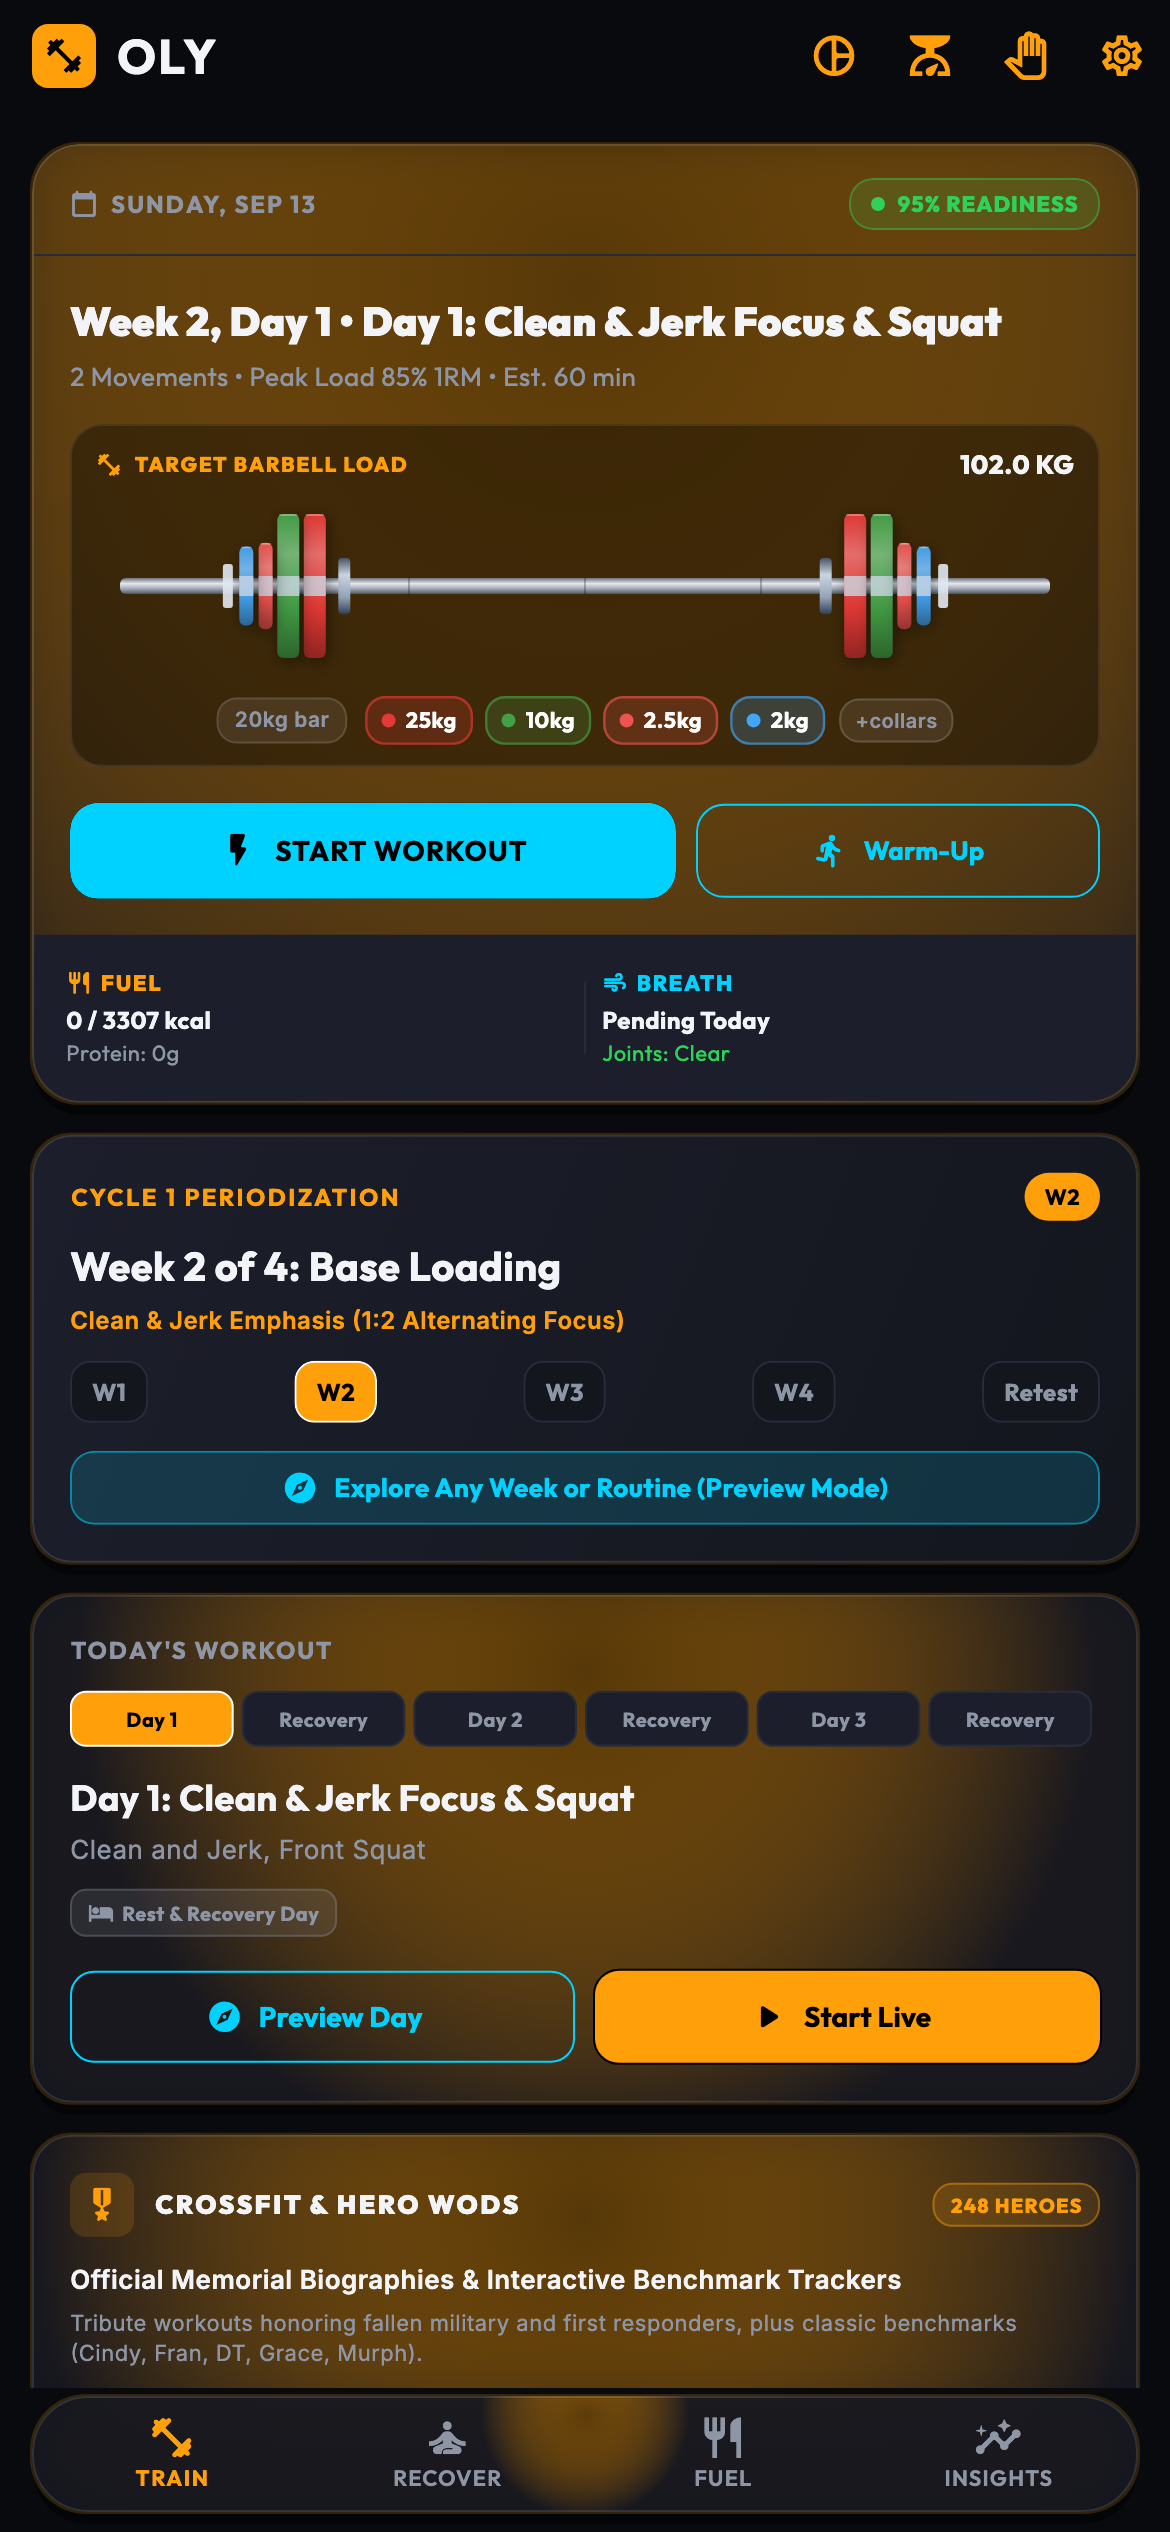
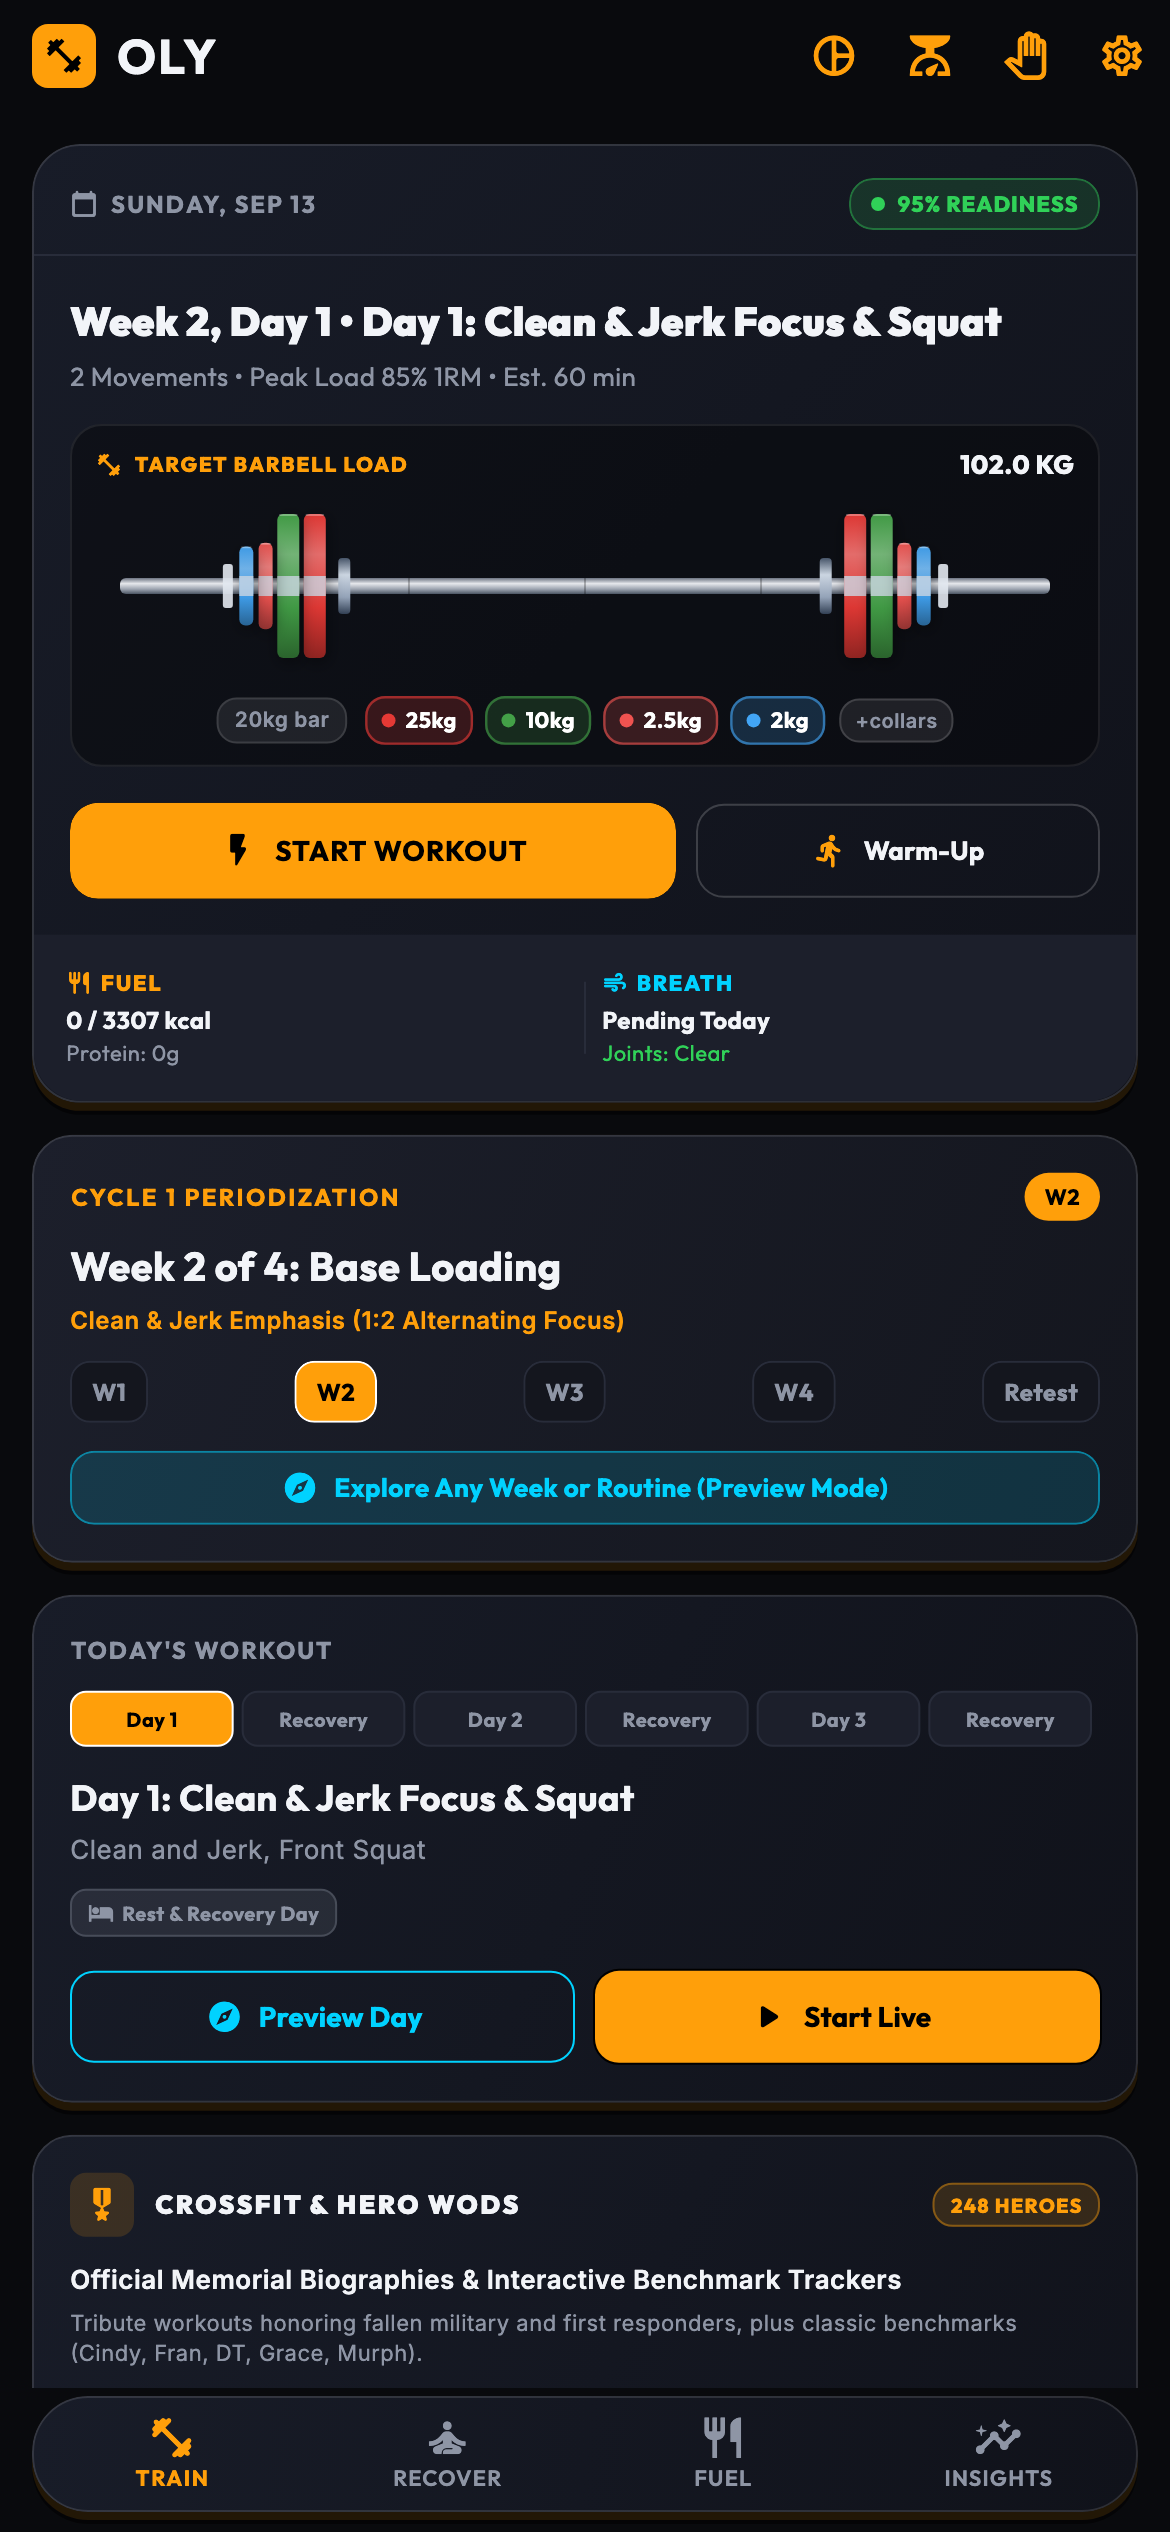
style(ui): eliminate muddy radial tint, polish deep smoked obsidian cards, and clean up dock navigation
- Refactor GlassContainer to maintain crisp, deep obsidian surface gradients (Color(0xFF181C28) to Color(0xFF10121A))
- Move ambient colored glow strictly to outer shadow halos, eliminating murky brownish surface washes
- Remove radial yellow blob from floating capsule dock for a clean frosted pill aesthetic
- Restructure WorkoutSessionScreen phase layout into clean section headers with standalone obsidian exercise cards
- Harmonize hero briefing card action buttons in AthleteSummaryOverviewCard

diff --git a/lib/views/workout_session_screen.dart b/lib/views/workout_session_screen.dart
@@ -1601,24 +1601,36 @@ class _WorkoutSessionScreenState extends State<WorkoutSessionScreen> {
     PhaseTemplate phase,
     SettingsProvider settings,
   ) {
-    return GlassContainer(
-      margin: const EdgeInsets.only(bottom: 16),
-      padding: const EdgeInsets.all(16),
-      ambientGlowColor: AppTheme.primaryAmber,
-      ambientGlowRadius: 0.9,
+    return Padding(
+      padding: const EdgeInsets.only(bottom: 20),
       child: Column(
         crossAxisAlignment: CrossAxisAlignment.start,
         children: <Widget>[
-          Text(
-            phase.name.toUpperCase(),
-            style: GoogleFonts.outfit(
-              fontSize: 13,
-              fontWeight: FontWeight.bold,
-              letterSpacing: 1,
-              color: AppTheme.primaryAmber,
+          Padding(
+            padding: const EdgeInsets.only(left: 4, bottom: 12),
+            child: Row(
+              children: <Widget>[
+                Container(
+                  width: 3,
+                  height: 14,
+                  decoration: BoxDecoration(
+                    color: AppTheme.primaryAmber,
+                    borderRadius: BorderRadius.circular(2),
+                  ),
+                ),
+                const SizedBox(width: 8),
+                Text(
+                  phase.name.toUpperCase(),
+                  style: GoogleFonts.outfit(
+                    fontSize: 12,
+                    fontWeight: FontWeight.w800,
+                    letterSpacing: 1.2,
+                    color: AppTheme.primaryAmber,
+                  ),
+                ),
+              ],
             ),
           ),
-          const SizedBox(height: 12),
           ...phase.exercises.map((exercise) {
             final String displayName =
                 _swappedExerciseNames[exercise.name] ?? exercise.name;
@@ -1633,17 +1645,14 @@ class _WorkoutSessionScreenState extends State<WorkoutSessionScreen> {
                 ? sets.first.reps
                 : WorkoutWeightHelper.extractRepsCount(exercise.setScheme);
 
-            return Container(
-              margin: const EdgeInsets.only(bottom: 12),
-              padding: const EdgeInsets.all(12),
-              decoration: BoxDecoration(
-                color: AppTheme.surfaceElevated,
-                borderRadius: BorderRadius.circular(16),
-                border: Border.all(
-                  color: isSwapped
-                      ? AppTheme.primaryAmber.withValues(alpha: 0.6)
-                      : AppTheme.borderColor,
-                ),
+            return GlassContainer(
+              margin: const EdgeInsets.only(bottom: 14),
+              padding: const EdgeInsets.all(14),
+              borderRadius: BorderRadius.circular(20),
+              border: Border.all(
+                color: isSwapped
+                    ? AppTheme.primaryAmber.withValues(alpha: 0.6)
+                    : Colors.white.withValues(alpha: 0.10),
               ),
               child: Column(
                 crossAxisAlignment: CrossAxisAlignment.start,

diff --git a/lib/widgets/athlete_summary_overview_card.dart b/lib/widgets/athlete_summary_overview_card.dart
@@ -98,8 +98,8 @@ class AthleteSummaryOverviewCard extends StatelessWidget {
       borderRadius: BorderRadius.circular(24),
       child: GlassContainer(
         borderRadius: BorderRadius.circular(24),
-        ambientGlowColor: hasDraft ? AppTheme.primaryAmber : const Color(0x33FF9F0A),
-        ambientGlowRadius: 1.1,
+        ambientGlowColor:
+            hasDraft ? AppTheme.primaryAmber : AppTheme.primaryAmber.withValues(alpha: 0.4),
         padding: EdgeInsets.zero,
         child: Column(
           crossAxisAlignment: CrossAxisAlignment.start,
@@ -355,9 +355,7 @@ class AthleteSummaryOverviewCard extends StatelessWidget {
                         borderRadius: BorderRadius.circular(14),
                         child: ElevatedButton.icon(
                           style: ElevatedButton.styleFrom(
-                            backgroundColor: hasDraft
-                                ? AppTheme.primaryAmber
-                                : AppTheme.secondaryCyan,
+                            backgroundColor: AppTheme.primaryAmber,
                             foregroundColor: Colors.black,
                             padding: const EdgeInsets.symmetric(vertical: 14),
                             shape: RoundedRectangleBorder(
@@ -399,8 +397,10 @@ class AthleteSummaryOverviewCard extends StatelessWidget {
                         borderRadius: BorderRadius.circular(14),
                         child: OutlinedButton.icon(
                           style: OutlinedButton.styleFrom(
-                            foregroundColor: AppTheme.secondaryCyan,
-                            side: const BorderSide(color: AppTheme.secondaryCyan),
+                            foregroundColor: AppTheme.textPrimary,
+                            side: BorderSide(
+                              color: Colors.white.withValues(alpha: 0.18),
+                            ),
                             padding: const EdgeInsets.symmetric(vertical: 14),
                             shape: RoundedRectangleBorder(
                               borderRadius: BorderRadius.circular(14),
@@ -415,8 +415,11 @@ class AthleteSummaryOverviewCard extends StatelessWidget {
                               ),
                             );
                           },
-                          icon:
-                              const Icon(Icons.directions_run_rounded, size: 18),
+                          icon: const Icon(
+                            Icons.directions_run_rounded,
+                            size: 18,
+                            color: AppTheme.primaryAmber,
+                          ),
                           label: Text(
                             'Warm-Up',
                             style: GoogleFonts.outfit(

diff --git a/lib/widgets/motion/glass_container.dart b/lib/widgets/motion/glass_container.dart
@@ -39,37 +39,34 @@ class GlassContainer extends StatelessWidget {
     final effectiveShadow = boxShadow ??
         <BoxShadow>[
           BoxShadow(
-            color: Colors.black.withValues(alpha: 0.5),
-            blurRadius: 20,
+            color: Colors.black.withValues(alpha: 0.55),
+            blurRadius: 22,
             offset: const Offset(0, 6),
           ),
           if (ambientGlowColor != null)
             BoxShadow(
-              color: ambientGlowColor!.withValues(alpha: 0.18),
-              blurRadius: 24,
-              spreadRadius: 1,
+              color: ambientGlowColor!.withValues(alpha: 0.12),
+              blurRadius: 32,
+              offset: const Offset(0, 4),
             ),
         ];
 
     final effectiveGradient = gradient ??
-        (ambientGlowColor != null
-            ? RadialGradient(
-                center: const Alignment(0, -0.7),
-                radius: ambientGlowRadius,
-                colors: <Color>[
-                  ambientGlowColor!.withValues(alpha: 0.18),
-                  (backgroundColor ?? AppTheme.surfaceGlass)
-                      .withValues(alpha: 0.85),
-                ],
-              )
-            : null);
+        LinearGradient(
+          begin: Alignment.topLeft,
+          end: Alignment.bottomRight,
+          colors: <Color>[
+            backgroundColor ?? const Color(0xFF181C28),
+            if (backgroundColor != null)
+              backgroundColor!.withValues(alpha: 0.85)
+            else
+              const Color(0xFF10121A),
+          ],
+        );
 
     Widget content = Container(
       padding: padding,
       decoration: BoxDecoration(
-        color: effectiveGradient == null
-            ? (backgroundColor ?? AppTheme.surfaceGlass)
-            : null,
         gradient: effectiveGradient,
         borderRadius: borderRadius,
         border: effectiveBorder,
